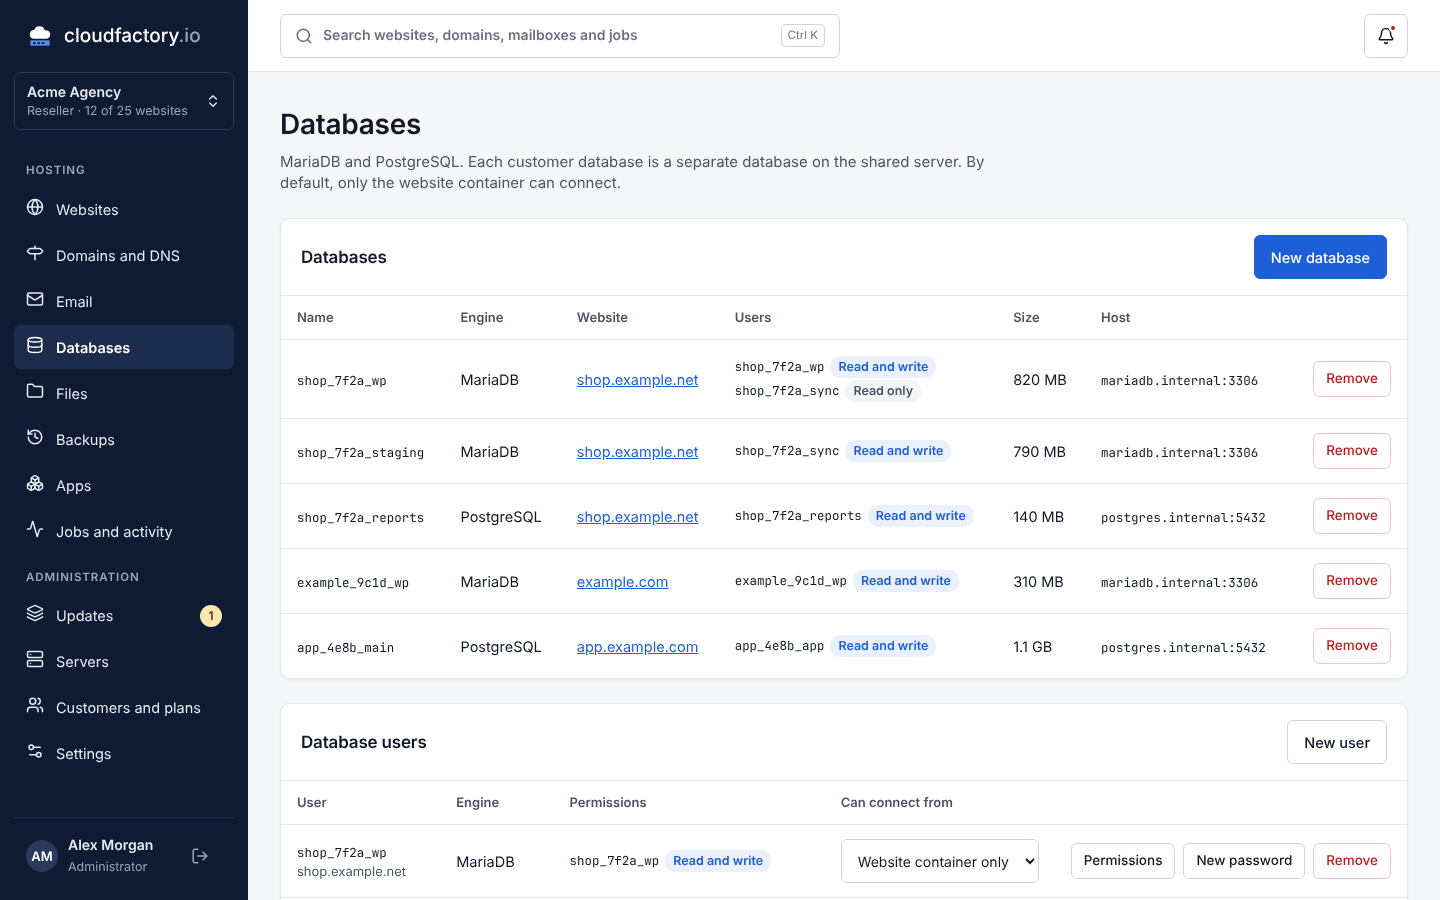
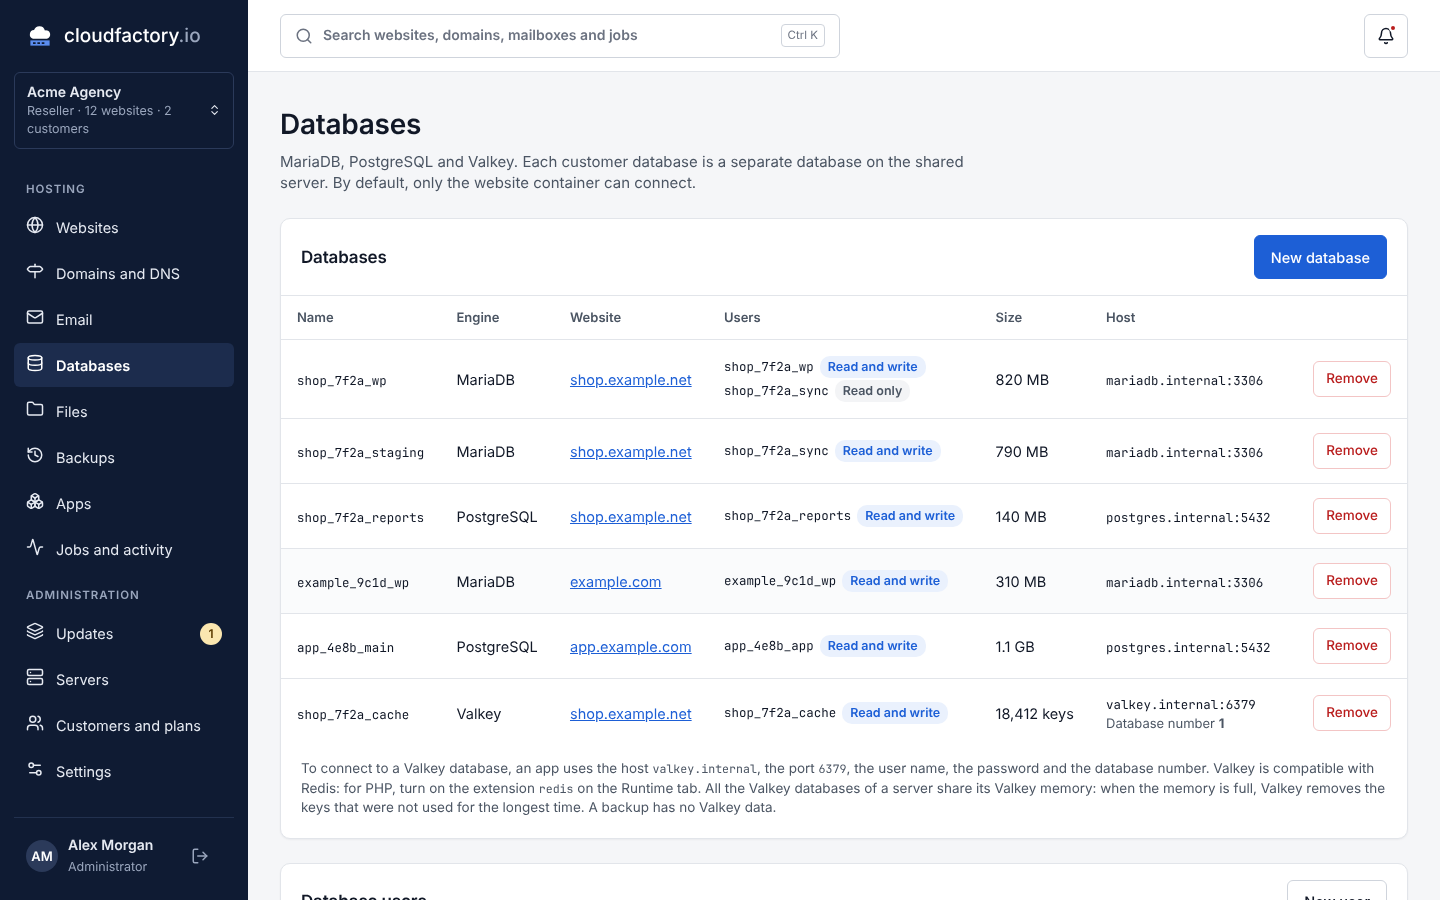
Show Valkey in the screenshots of the databases pages
Claude-Session: https://claude.ai/code/session_016DWqw7WJgLcrTdoR65iNnZ

diff --git a/docs/screenshots/README.md b/docs/screenshots/README.md
@@ -167,3 +167,17 @@ certificate.
 The change back to the panel CA. Add the root certificate to the browser first (HSTS).
 
 ![34-change-back-to-panel-ca](34-change-back-to-panel-ca.png)
+
+## 35-new-valkey-database
+
+A new Valkey database. It always gets a user with the same name, so the form has no option
+for the user.
+
+![35-new-valkey-database](35-new-valkey-database.png)
+
+## 36-valkey-database
+
+The databases of a website with a Valkey database: the host, the database number and the
+number of keys. The user of a Valkey database can only get a new password.
+
+![36-valkey-database](36-valkey-database.png)
